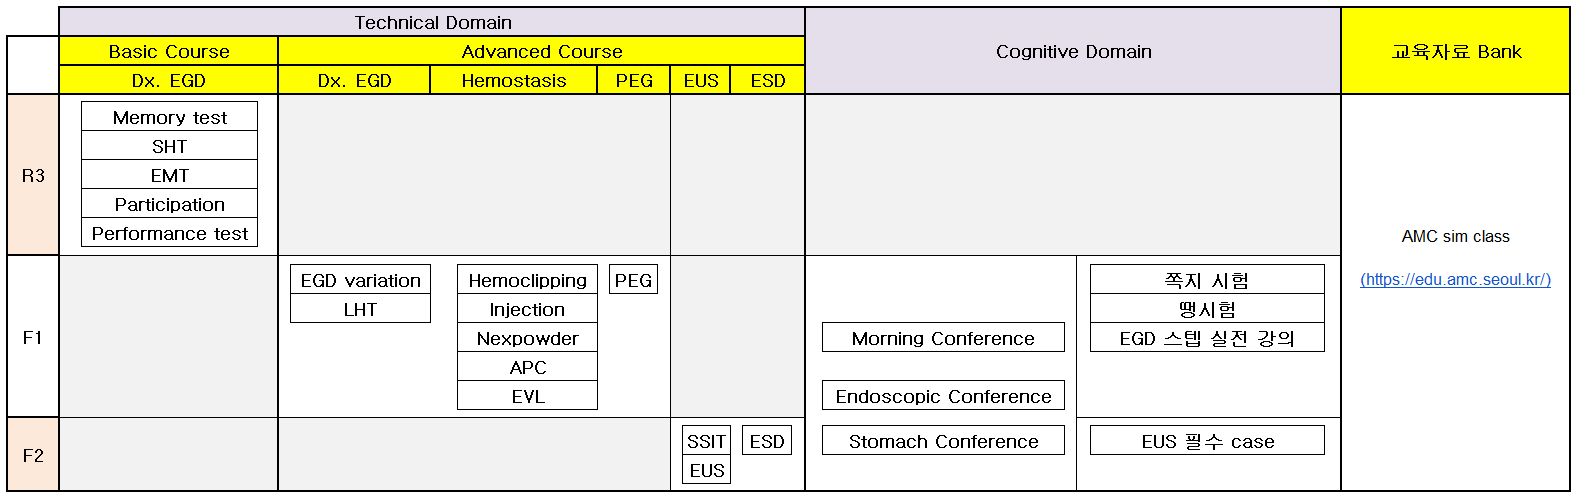
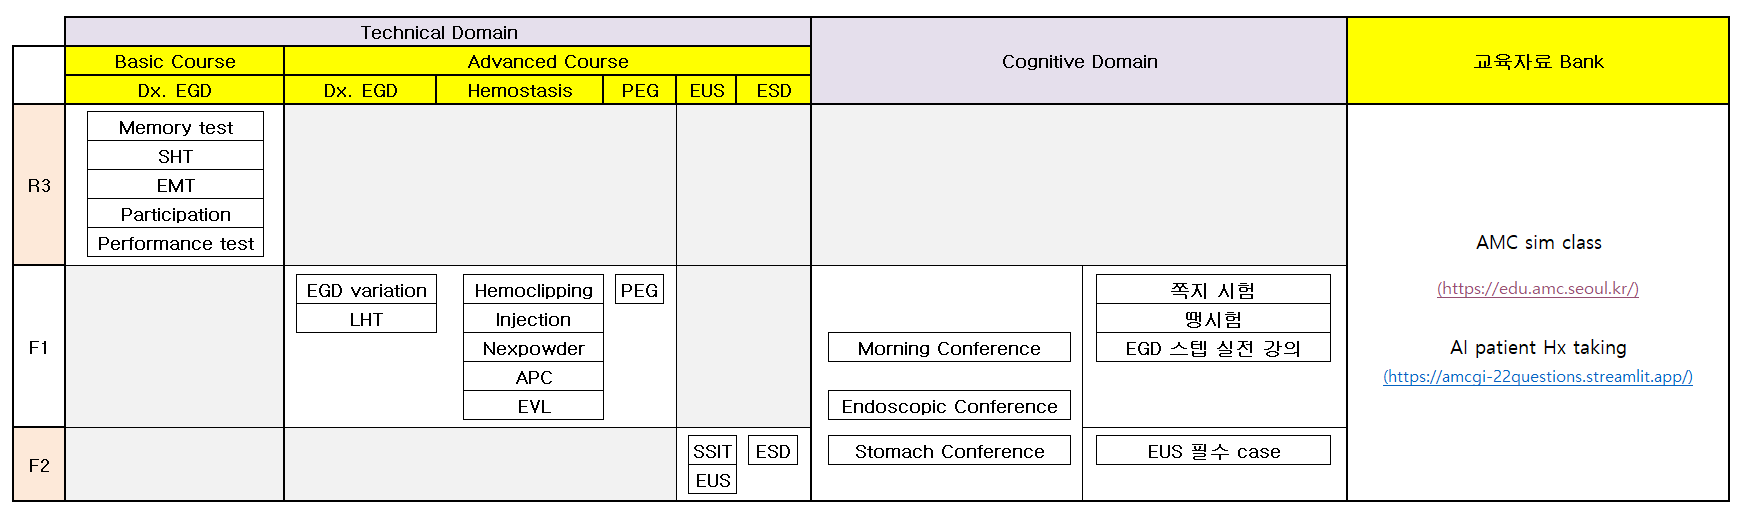
ㅊ

Changed region(s): [[0.0, 0.0, 1.0, 0.996], [0.84, 0.4527, 0.9644, 0.4829]]

diff --git a/pages/3 소화기 전임의 공통 프로그램.py b/pages/3 소화기 전임의 공통 프로그램.py
@@ -52,6 +52,18 @@ if st.session_state.get('logged_in', False):  # 로그인 상태 확인
             1. 공식적으로는 50% 이상 출석이 권장되지만 너무 중요한 훈련 프로그램이므로 꼭 참석하세요.
             '''
         )
+        st.subheader("AI 소화기 환자 병력 청취 훈련 프로그램")
+        with st.expander("AI 소화기 환자 병력 청취 훈련 프로그램 내용을 보려면 여기를 눌러주세요"):
+            st.markdown(
+                '''
+                1. chatgpt를 이용한 전형적인 소화기 환자의 chief complaint에 대한 병력 청취 훈련 프로그램입니다.
+                1. [AI patient Hx taking program](https://amcgi-22questions.streamlit.app/)에 접속하고, ID는 amcgi, PW는 3180을 입력하면 사용할 수 있습니다.
+                1. 왼편 sidebar에서 증례를 선정하고 한글 타이핑으로 질문하면 AI 환자가 적절한 대답을 하는 형식으로 진행됩니다.
+                1. 질문을 다 했으면 "궁금하신 점이 있으신가요"라고 AI 환자에게 질문하고 2 개의 질문을 받아 대답합니다.
+                1. AI의 두 가지 질문에 답하면 약 50초 기다렸다가 선생님이 질문하지 않았던 항목을 찾아 줍니다. 단 완전치는 않습니다.
+                1. 왼편 sidebar에는 증례의 해설 파일을 다운로드 받는 기능이 있으니 훈련에 참고하세요.
+                '''
+            )
         st.subheader("")
         st.subheader("")
 

diff --git a/pages/0 Home.py b/pages/0 Home.py
@@ -19,6 +19,7 @@ if st.session_state.get('logged_in', False):  # 로그인 상태 확인
                 1. 소화기 내시경 교육 동영상은 서울아산병원 시뮬레이션 센터 [Sim Class](https://edu.amc.seoul.kr/)에서 시청할 수 있습니다.
                     1. ID 와 PW를 받아서 로그인 합니다.
                     1. 필요한 동영상을 청취하면 자동으로 출석 처리 됩니다.
+                1. AI 소화기 환자 병력 청취 훈련 프로그램은 훈련 프로그램 웹페이지 [AI patient Hx taking program](https://amcgi-22questions.streamlit.app/)에 접속하여 ID는 amcgi PW는 3180을 입력하시면 사용하실 수 있습니다.
             '''
         )
     st.divider()
